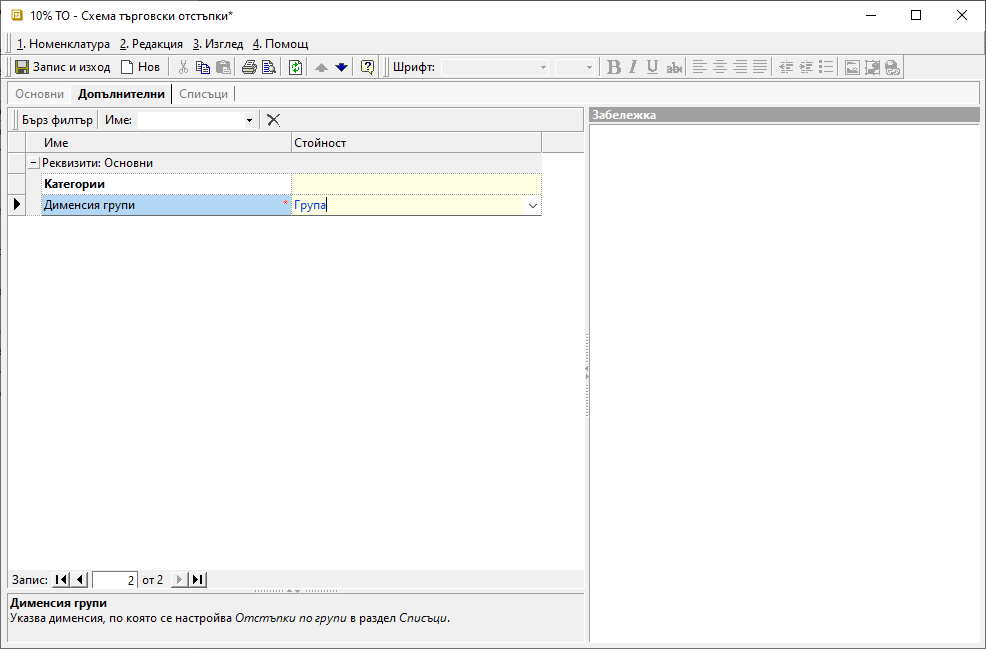
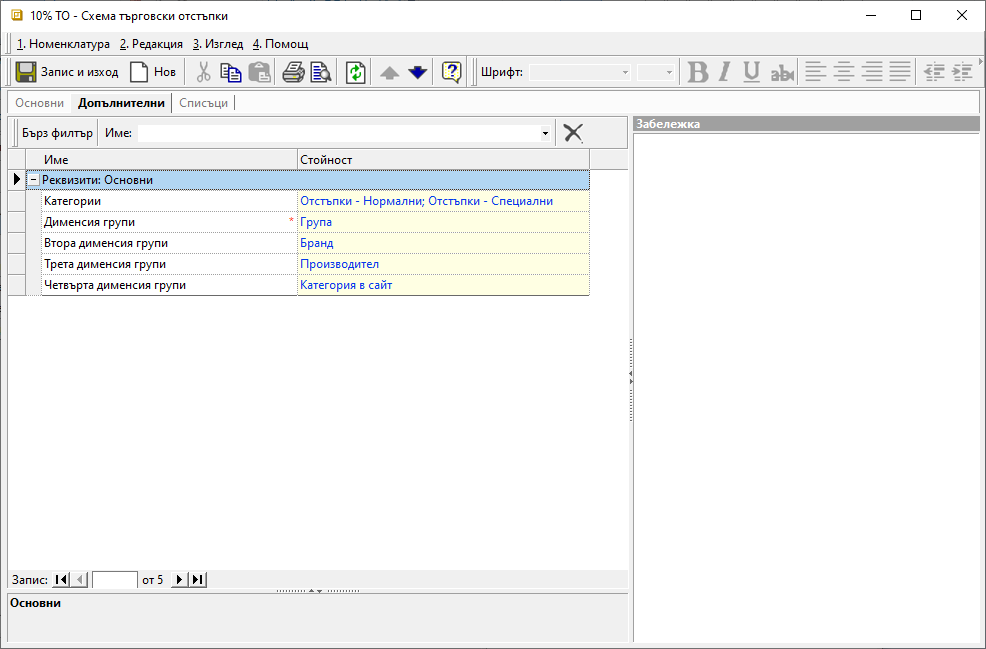
Актуализиране на тема Търговски отстъпки (ref)

Changed region(s): [[0.0, 0.0616, 1.0, 0.4622], [0.0, 0.9245, 0.4564, 0.9861], [0.5781, 0.0616, 0.6085, 0.0924]]

diff --git a/guide/erp/001-ref/001-nomenclatures/006-discount-schemes.md b/guide/erp/001-ref/001-nomenclatures/006-discount-schemes.md
@@ -4,43 +4,78 @@
 
 # Търговски отстъпки
 
-Схемата с търговски отстъпки представлява шаблон с настроени намаления от цената, който може да се прилага в документи за заявки, покупка и продажба. 
+- [Въведение](https://docs.unicontsoft.com/guide/erp/001-ref/001-nomenclatures/006-discount-schemes.html#id2)  
+- [Създаване на схема с ТО%](https://docs.unicontsoft.com/guide/erp/001-ref/001-nomenclatures/006-discount-schemes.html#id3)  
+- [Реквизити](https://docs.unicontsoft.com/guide/erp/001-ref/001-nomenclatures/006-discount-schemes.html#id4)  
+- [Свързани статии](https://docs.unicontsoft.com/guide/erp/001-ref/001-nomenclatures/006-discount-schemes.html#id5)  
+
+## **Въведение**
+
+Схемата с търговски отстъпки представлява шаблон с настроени намаления от цената, който може да се прилага в документи за заявки, покупка и продажба.  
 Отстъпките се настройват в проценти общо за цяла група/и, както и индивидуално за продукт.  
 
-Може да създадете множество схеми с ТО в системата, които да прилагате ръчно, или да обвържете с настройките на избрани контрагенти.
+Може да създадете множество схеми с ТО в системата, които да прилагате ръчно, или да обвържете с настройките на избрани контрагенти.  
 
-Процесът на създаване на схеми с търговски отстъпки е следният:
+## **Създаване на схема с ТО%**
 
- 1) За създаване на нова схема с отстъпка се отваря група функции **Номенклатури || Търговски отстъпки**. Чрез десен бутон на мишката върху списъка вдясно се избира **Нова схема търговски отстъпки**. Отваря се форма за въвеждане на данни **Ценова листа**, в
-която се попълват няколко реквизита:
+Процесът на създаване на схеми с търговски отстъпки е следният:  
+
+ 1) За създаване на нова схема с отстъпка се отваря група функции **Номенклатури || Търговски отстъпки**. Чрез десен бутон на мишката върху списъка вдясно се избира **Нова схема търговски отстъпки**. Отваря се форма за въвеждане на данни **Ценова листа**, в която се попълват няколко реквизита:  
 
 ![](906-discount-schemes1.png){ class=align-center w=15cm }
 
-2) В раздел **Основни** се настройват:
-    - **Код** — кодът може да се попълни ръчно или системата да даде пореден номер при запис на номенклатурата;
-    - **Име** – в свободен текст се изписва наименование на схемата с ТО (задължителна настройка);
-    - **Активен** - чрез поставяне/премахване на отметка схемата с ТО се активира/деактивира;
+2) В раздел **Основни** се настройват реквизити **Код**, **Активен** и **Име**.  
+По желание поле **Код** може да се попълни ръчно или системата да даде пореден номер при запис на номенклатурата. Чрез поставяне или премахване на отметка за реквизит **Активен** схемата с ТО се активира или деактивира. **Име** е задължително поле, в което се изписва наименование на схемата с ТО.  
 
-3) В раздел **Допълнителни** се настройват:
-    - **Категории** - Използва при настройка за сигурност и ограничаване на достъпа до ценови листи; 
-    - **Дименсия групи** - Избира се дименсията, по която в раздел **Списъци** ще се настройват *Отстъпки по групи*(задължителна настройка);
+3) В раздел **Допълнителни** може да се дефинират **Категории**, които се използват при настройки за сигурност и ограничаване на достъпа до ценови листи.  
+
+От този раздел могат да бъдат избрани дименсии на продукти, по които да се настроят отстъпките по групи. Това става чрез определянето им в реквизити **Дименсия групи**, **Втора дименсия групи**, **Трета дименсия групи** и **Четвърта дименсия групи**. За всяка дефинирана дименсия системата ще визуализира колона в раздел **Списъци**.  
 
 ![](906-discount-schemes2.png){ class=align-center w=15cm }
 
-4) В раздел **Списъци** се настройват:
-    - **Отстъпки по групи** - От списъка вдясно се избират групи с отстъпка, като се обзавеждат колони:   
-        - *Група* - избира се дименсия, като отстъпката може да се настрои общо за всички или за отделни групи;
-        - *Отстъпка %* - стойност на желаите проценти намаление;
-    - **Отстъпки по продукти** - От списъка се посочват продукти, за които ще има специфична отстъпка. Те се явяват изключения от настройките за групи. 
-Попълват се колони:
-        - *Продукт/материал* - избира се конкретен продукт, за който има индивидуална отстъпка, различна от тази по групи;
-        - *Отстъпка %* - стойност на желаите проценти намаление;
+4) От раздел **Списъци** се настройват процентите с търговски отстъпки по групи и/или по продукти.  
+
+В секция **Отстъпки по групи** е достъпен списък, който съдържа променлив брой колони с дименсии според настройките в **Допълнителни**. С отделни редове могат да бъдат конфигурирани различни комбинации между групи. Ако в дадено поле не бъде посочена дименсия, системата прилага отстъпката за всички продукти в тази група.  
+В колона **Отстъпка %** се въвежда стойност на желаните проценти намаление.  
+
+**Отстъпки по продукти** се настройват, като се дефинира списък с продукти, за които ще има специфична отстъпка. Те се явяват изключения от настройките за групи.  
+
+В колоната **Продукт/материал** се избира конкретен продукт, за който ще има индивидуална отстъпка. Стойността на търговската отстъпка се попълва в проценти в колона **Отстъпка %**.  
 
 ![](906-discount-schemes3.png){ class=align-center w=15cm }
 
-> При използване на схема с ТО в документ, системата прилага с приоритет настроените отстъпки по продукти. Ако не открие такива, прилага отстъпките по групи.
-___
-## Свързани статии
+> При използване на схема с ТО в документ системата прилага с приоритет отстъпките по продукти. Ако не открие такива, прилага настроените отстъпки по групи.  
+
+5) С бутон [**Запис и Изход**] от лентата с инструменти въведените настройки се записват и формата се затваря.  
+
+## **Реквизити**
+
+1) В раздел **Основни**:  
+   - **Код** – в полето се попълва код в цифри, букви и/или други знаци;  
+   Ако бъде оставено празно, системата автоматично обзавежда полето с пореден номер.  
+   - **Активен** - чрез поставяне/махане на отметка схемата с ТО се маркира като активна или неактивна номенклатура;  
+   - **Име** – попълва се наименование за схемата с ТО;  
+
+2) Раздел **Допълнителни**:  
+   **Реквизити: Основни**  
+   - **Категории** - използва се за ограничаване на достъп до ценови листи по категории;    
+   - **Дименсия групи** - поле за избор на дименсия, по която се настройва *Отстъпки по групи* в раздел *Списъци*;  
+   - **Втора дименсия групи** - избор на втора дименсия, по която се настройва *Отстъпки по групи* в раздел *Списъци*;  
+   - **Трета дименсия групи** - указва трета дименсия, по която се настройва *Отстъпки по групи* в раздел *Списъци*;  
+   - **Четвърта дименсия групи** - указва четвърта дименсия, по която се настройва *Отстъпки по групи* в раздел *Списъци*;  
+
+3) Раздел **Списъци**:  
+   **Списъци**  
+   - **Отстъпки по групи** - Тази секция включва списък за настройка на отстъпки с всички дименсии,  дефинирани в раздел **Допълнителни**. Всяка дименсия се визуализира в отделна колона, носеща  нейното име.  
+        - *Дименсия* - поле за избор на група;  
+        Отстъпката може да се настрои общо за всички или за отделни групи.  
+        - *Отстъпка %* - попълва се стойност на желаната отстъпка в проценти;  
+   - **Отстъпки по продукти** - От списъка се посочват продукти, за които ще има различна търговска отстъпка, като се обзавеждат колони:     
+        - *Продукт/материал* - поле за избор на продукт;  
+        Отстъпката може да се настрои общо за всички или за отделни продукти.  
+        - *Отстъпка %* - попълва се стойност на желаната отстъпка в проценти;  
+
+## **Свързани статии**
 
 - [Как да създадем схема с ТО%?](https://www.unicontsoft.com/cms/node/15)  
 - [Как да свържем Схема с ТО% с контрагент?](https://www.unicontsoft.com/cms/node/67)

diff --git a/guide/erp/001-ref/001-nomenclatures/003-items.md b/guide/erp/001-ref/001-nomenclatures/003-items.md
@@ -9,7 +9,7 @@
 - [Реквизити](https://docs.unicontsoft.com/guide/erp/001-ref/001-nomenclatures/003-items.html#id4)  
 - [Свързани статии](https://docs.unicontsoft.com/guide/erp/001-ref/001-nomenclatures/003-items.html#id5)  
 
-## **Въведение ** 
+## **Въведение** 
 
 В номенклатура **Продукти** се включват всички стоки, продукти, материали, услуги и други артикули, с които работите.  
 За цялостното функциониране на **Продукти** е необходимо предварително да бъдат настроени свързаните с тях референтни номенклатури - като **Тип**, **Мярка**, **Фасети на мерки**, **Потребителски дименсии** и други.  
@@ -25,7 +25,7 @@
 **Тип на продукта** е референтна номенклатура, свързана пряко с настройките на **Автоматичен осчетоводител**. Спрямо него системата генерира счетоводните записвания по продукт. Чрез типа на продукта се определя дали артикулът е стока, услуга, ДМА или др.  
 Мерната единица се настройва, като в общия случай това е най-малката мярка, в която се отчита и се оперира с продукта.  
 
-   > Основната мерна единица на продукта не трябва да се променя, ако той вече участва във валидирани складови документи.
+   > Ако основната мярка на продукт се промени, след като той вече участва във валидирани складови документи, в склада ще има наличности в различни мерни единици.  
 
    Допълнително през реда за нов запис може да се добави списък с клиентски ценови листи, в които продуктът участва. В списъка могат да се коригират, изтриват и добавят данни с ценови условия.  
 

diff --git a/guide/erp/001-ref/001-nomenclatures/005-price-lists.md b/guide/erp/001-ref/001-nomenclatures/005-price-lists.md
@@ -129,7 +129,7 @@
         Може да се изчисли автоматично от системата след настройка на полето с надценка;  
         - *Надценка* - попълва се стойност на желаната надценка в проценти;  
         - *Добавка* - опция с точна сума, която да се добави в цената;  
-   - **График за прилагане** - 
+
 
 ## **Свързани статии**
  
